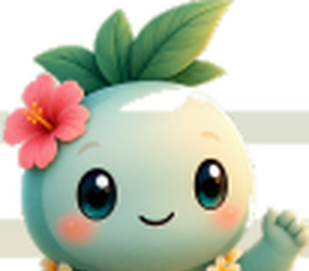
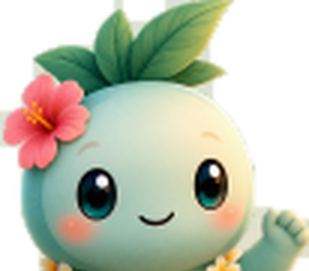
Fix the scaffold flex, the mascot matte, and write the handoff
The page shell put a Spacer next to a Flexible scroll view, so the two
split the free space and every scrolling screen was cut in half - the
home screen rendered its welcome card and then stopped. Both branches
are Expanded now, which is what actually pins the action to the bottom.

The mascot matte had two faults, both visible in the build. It built the
alpha over the 103 px crop, where row_background reads the page gradient
from the left and right edges - inside the crop those edges are the
mascot, so whole rows came out opaque and painted pale bands across the
screen behind the character. And a plain flood fill left a hole through
the head: the highlight there falls under the threshold and leaks to the
outside through the thin edge of the silhouette. Now the mask is built
over the full screen and closed before filling.

Verified in Chrome at 390x844 against the mockups: welcome, home,
check-in, calendar, settings and menu all match.

WITH_ME_V1_HANDOFF.md says what was built and what is not real - the
inert membership fields, the reminder with no scheduler, the missing
strategy-ratings table, and the fact that the fonts and the mascot art
are both inferred rather than given. WITH_ME_UI.md is marked superseded.

diff --git a/stress_and_anxiety_management_app_ios/lib/WithMe/Components/WithMeScaffold.dart b/stress_and_anxiety_management_app_ios/lib/WithMe/Components/WithMeScaffold.dart
@@ -63,16 +63,20 @@ class WithMeScaffold extends StatelessWidget {
       children: [
         if (lockup) const _Lockup(),
         if (title != null) _Title(title!, onBack: onBack),
+        // Expanded either way, so the action stays pinned to the bottom: a
+        // Spacer beside a Flexible scroll view would split the free space
+        // between them and cut the content in half.
         if (child != null)
-          scrollable
-              ? Flexible(
-                  child: SingleChildScrollView(
+          Expanded(
+            child: scrollable
+                ? SingleChildScrollView(
                     padding: const EdgeInsets.only(bottom: WithMeSpace.lg),
                     child: child,
-                  ),
-                )
-              : Expanded(child: child!),
-        if (scrollable) const Spacer(),
+                  )
+                : child!,
+          )
+        else
+          const Spacer(),
         if (action != null) ...[
           const SizedBox(height: WithMeSpace.lg),
           action!,

diff --git a/tool/extract_mascot.py b/tool/extract_mascot.py
@@ -188,9 +188,22 @@ def fill_holes(alpha):
 def matte(screen, mask, box):
     """Crop to the mascot and build an alpha channel from the mask."""
     sub = screen.crop(box).convert("RGBA")
-    # Rebuild the mask over the crop without the chrome rule — see
-    # deviation_mask — then close what the threshold missed.
-    alpha = fill_holes(deviation_mask(screen.crop(box), skip_chrome=False))
+    # Rebuild the mask without the chrome rule — see deviation_mask — then
+    # close what the threshold missed.
+    #
+    # Build it over the WHOLE screen and crop afterwards: row_background reads
+    # the page gradient from the left and right edges, and inside a 103 px
+    # crop those edges are the mascot itself, which turns whole rows opaque.
+    mask = deviation_mask(screen, skip_chrome=False).crop(box)
+    # Close the mask before filling. The character's pale highlights - the top
+    # of the head especially - sit close enough to the page gradient to fall
+    # under the threshold, and they leak to the outside through the thin edge
+    # of the silhouette, so a plain flood leaves a hole through the head.
+    # Dilating first bridges those gaps; eroding afterwards puts the outline
+    # back where it was.
+    mask = mask.filter(ImageFilter.MaxFilter(7))
+    mask = fill_holes(mask)
+    alpha = mask.filter(ImageFilter.MinFilter(7))
     # Soften the 1 px staircase the threshold leaves behind.
     alpha = alpha.filter(ImageFilter.GaussianBlur(0.6))
     sub.putalpha(alpha)

diff --git a/docs/WITH_ME_V1_HANDOFF.md b/docs/WITH_ME_V1_HANDOFF.md
@@ -1,0 +1,144 @@
+# With Me V1 — what was built, and what is still open
+
+Branch `design-v1-exact`, off `BhavB13/with-me-companion-ui`. Local commits
+only — nothing pushed.
+
+## The one thing to know first
+
+**`WITH ME Complete App Design V1.docx` contains no specifications.** It is 45
+screenshots and 9 section headings — no measurements, no colour values, no font
+names, no Figma link, no redlines. Each screenshot is about 330 × 640 px.
+
+So "match the design exactly" could not be read off the document. Every number
+in the app was **measured** off the images instead:
+
+| | |
+|---|---|
+| Device frame inner screen | **290 × 590 px**, identical in all 45 mockups |
+| Reference device | iPhone 14/15 — **390 × 844 pt** |
+| Conversion | **× 1.3448** |
+
+`tool/measure_mockups.py` does the measuring and `docs/WITH_ME_SPEC_V1.md`
+records the result — the redline document the .docx should have been. The
+numbers in the code come from there, not from taste. If the product owner
+supplies the real design source, re-run the script and diff it against the
+spec before changing anything.
+
+One consequence to carry: the mockup screen is 2.034:1 and a real iPhone 14 is
+2.164:1, so there is ~50 pt of vertical slack on a real device. `WithMeScaffold`
+absorbs it in one flexible gap above the bottom action. Widths and type sizes
+convert exactly.
+
+## What the app is now
+
+The design covers the whole product, so With Me stopped being a section beside
+the legacy HOWRU.LIFE screens and became the app. `main.dart` opens on the
+welcome screen, the theme lives on `MaterialApp`, and the blue-grey
+presentation layer is gone.
+
+All 45 screens are built. `lib/Database/LocalDatabase.dart` is **unchanged** —
+the check-in still writes through `insertMood`, `insertControlGauge`,
+`insertStressor` and `insertReflection`, and the `YYYY-MM-DD` date format those
+queries depend on is untouched.
+
+Dashboards read real rows. On a fresh install the insights screen says "No
+check-ins in the last 30 days yet" rather than inventing the mockup's
+40/20/20/10/10 split.
+
+```
+flutter analyze   0 errors, 0 warnings
+flutter test      3 passing
+```
+
+Verified in Chrome at 390 × 844 against the mockups.
+
+## Decisions you should know about
+
+**Fonts are a guess.** The design names none. Quicksand (UI) and Yellowtail
+(the script wordmark and accent lines) were identified from the renders and
+shipped as assets. If the real faces exist, changing `WithMeText.ui` and
+`WithMeText.script` plus the `fonts:` block is the whole job.
+
+**The mascot is cut out of the screenshots.** There is no character art
+anywhere — the concept PDF has the character baked into a beach background.
+`tool/extract_mascot.py` lifts the largest clean instance off the page
+gradient (`image1.png`, 103 × 146 px), closes the mask, mattes it and upscales
+3×. Two consequences:
+
+- It is **one pose**. `MascotExpression` still picks the *motion* — a
+  celebrating hop reads differently from an idle breath — but the face does not
+  change.
+- At the 200 pt hero size the design uses, upscaled 103 px art is soft.
+
+Transparent PNGs at 3× (~660 px tall), one per expression, would fix both and
+change nothing outside `WithMeAvatar`. `MascotPainter` is kept unused as the
+vector fallback.
+
+**There is no login form in the document.** `image1` has a "Log In" button;
+`image2` and `image3` are signup and password reset. `WithMeLoginScreen` is
+built to match those two exactly rather than invented.
+
+**`image28` is the old blue design** — a leftover "before" screenshot sitting
+next to the new-style `image29`. Rebuilt in the V1 style as
+`BoxBreathingInfoScreen`.
+
+**The menu's "Help" row had no screen.** Rather than delete the old FAQ answers
+along with the rest of the legacy UI, they were kept and restyled as
+`HelpScreen`.
+
+## Deliberately inert
+
+These are drawn because the design draws them, and they do nothing:
+
+- **Membership (`image43`)** shows card, expiry and CVC fields for a $4.99/mo
+  plan. There is no payment integration; nothing collects or transmits card
+  details and "Start Plus" charges nothing. Do not wire this up without a real
+  payment provider and a review of what the screen implies.
+- **Notifications (`image42`) and the reminder (`image38`)** are preferences
+  with no scheduler behind them — the project has no notifications plugin.
+- **Soundscapes (`image31`)** run on a timer, not audio. `_tick` is the seam.
+- **"Continue with Google", Privacy & data, Export, Terms** all say so when
+  tapped.
+
+## Still open
+
+1. **Strategy ratings have no table.** `LocalDatabase` covers reflections,
+   moods, the control gauge and stressors. The strategies screen (`image21`)
+   and the Strategies & Actions breakdown (`image34`) have nowhere to write,
+   so the breakdown shows the vocabulary rather than real use. This is the
+   biggest gap between what the design promises and what the app can deliver.
+2. **Passwords are still plaintext** in the `users` table. Carried over, not
+   introduced here, and it should not ship.
+3. **No safety/crisis layer.** Flagged in the previous pass and still true.
+   Nothing in V1 addresses it either.
+4. **Signs are stored in the stressor `detail` column**, comma-joined, because
+   there is no signs table. The Triggers & Signs screen parses them back out.
+   It works; it is not a schema.
+
+## Running it
+
+Flutter is at `C:\flutter\bin` and is **not on PATH**.
+
+```bash
+C:/flutter/bin/flutter run -d chrome
+```
+
+To rebuild the web bundle and serve it:
+
+```bash
+C:/flutter/bin/flutter build web --no-tree-shake-icons && python -m http.server 8137 --directory build/web
+```
+
+Routes are hash-based — `http://127.0.0.1:8137/#/home`, `#/check-in`,
+`#/calendar`, `#/menu`, `#/settings`, `#/progress`, and so on; `main.dart` has
+the full list. Check screens at a 390 × 844 viewport.
+
+To regenerate the design artefacts:
+
+```bash
+unzip -oq "WITH ME Complete App Design V1.docx" -d build/design_v1
+python tool/measure_mockups.py > build/measurements.txt
+python tool/extract_mascot.py --write
+```
+
+`build/` is gitignored; the .docx is the source of truth.

diff --git a/docs/WITH_ME_UI.md b/docs/WITH_ME_UI.md
@@ -1,5 +1,21 @@
 # With Me — AI Companion UI
 
+> **Superseded for the V1 design pass.** This file describes the first
+> companion build, made from the concept PDF (`FIU WITH ME.pdf`) as a
+> six-screen section bolted onto the legacy HOWRU.LIFE app.
+>
+> The app has since been rebuilt against
+> `WITH ME Complete App Design V1.docx` — 45 screens, the whole product. See
+> **`docs/WITH_ME_SPEC_V1.md`** for the measured spec and
+> **`docs/WITH_ME_V1_HANDOFF.md`** for what was built and what is still open.
+> The legacy screens, the six original companion screens, the beach backdrop
+> and the vector-painted mascot described below are all gone or replaced.
+>
+> Kept because it records why several decisions were made, and the three
+> blocking fixes to the delivered project (the misplaced `LocalDatabase.dart`,
+> the duplicate import path, and `main()` wiping the database on launch) still
+> apply.
+
 UI-only implementation of the "With Me" companion described in the product
 owners' spec (`FIU WITH ME.pdf`). No conversation engine, no persistence, no
 network calls — those plug in behind the seams noted below.
